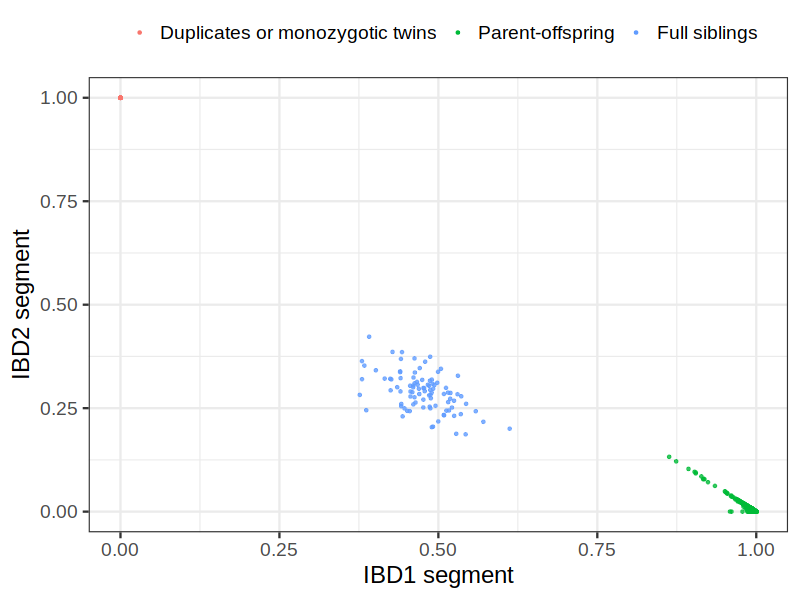
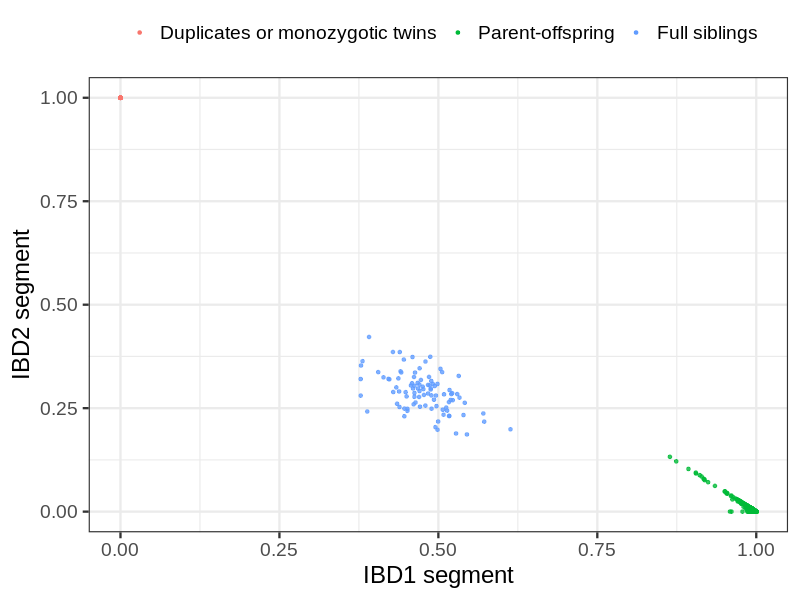
rerun

diff --git a/qc-pipeline/docs/snp011/fam_reconstruction.md b/qc-pipeline/docs/snp011/fam_reconstruction.md
@@ -1,10 +1,10 @@
-# Fam file reconstruction in snp014
+# Fam file reconstruction in snp011
 ## Relationship inference
 | Relationship |   |
 | ------------ | - |
-| Duplicates or monozygotic twins| 3 |
-| Parent-offspring| 5810 |
-| Full siblings| 20 |
+| Duplicates or monozygotic twins| 5 |
+| Parent-offspring| 2029 |
+| Full siblings| 28 |
 | 2nd degree| 0 |
 | 3rd degree| 0 |
 | 4th degree| 0 |
@@ -12,4 +12,4 @@
 
 ![](fam_reconstruction/ibd_plot.png)
 ## Exclusion
-- Number of children with parent-offspring relationship: 13
+- Number of children with parent-offspring relationship: 0

diff --git a/qc-pipeline/docs/snp012/fam_reconstruction.md b/qc-pipeline/docs/snp012/fam_reconstruction.md
@@ -3,7 +3,7 @@
 | Relationship |   |
 | ------------ | - |
 | Duplicates or monozygotic twins| 37 |
-| Parent-offspring| 11534 |
+| Parent-offspring| 11531 |
 | Full siblings| 95 |
 | 2nd degree| 0 |
 | 3rd degree| 0 |
